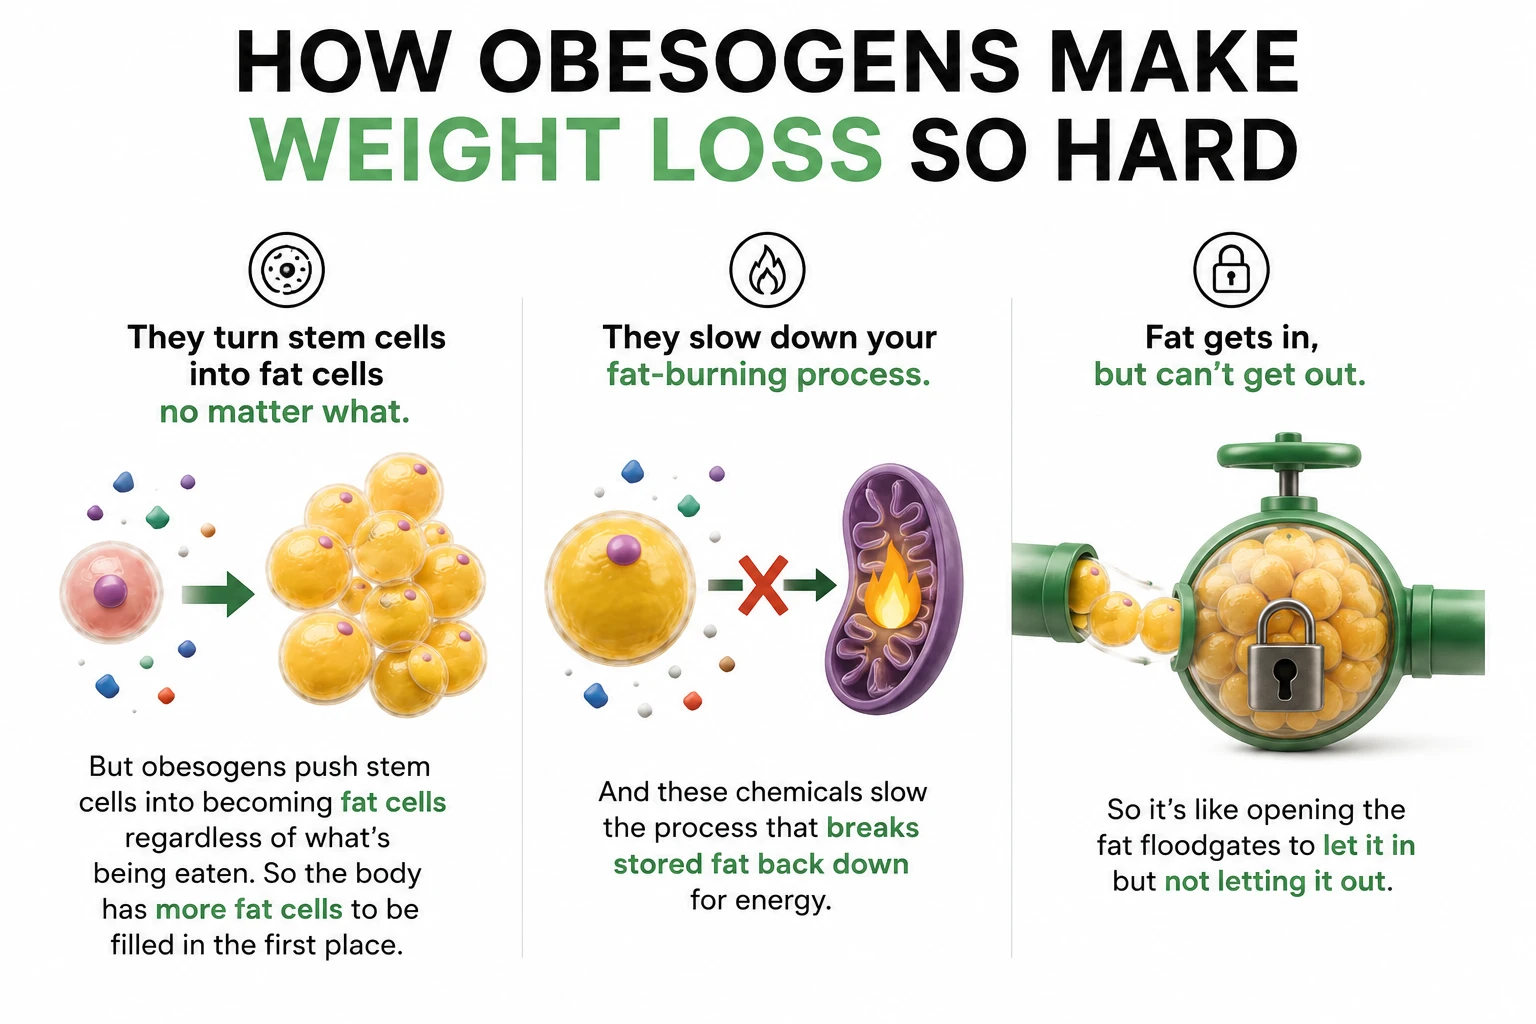
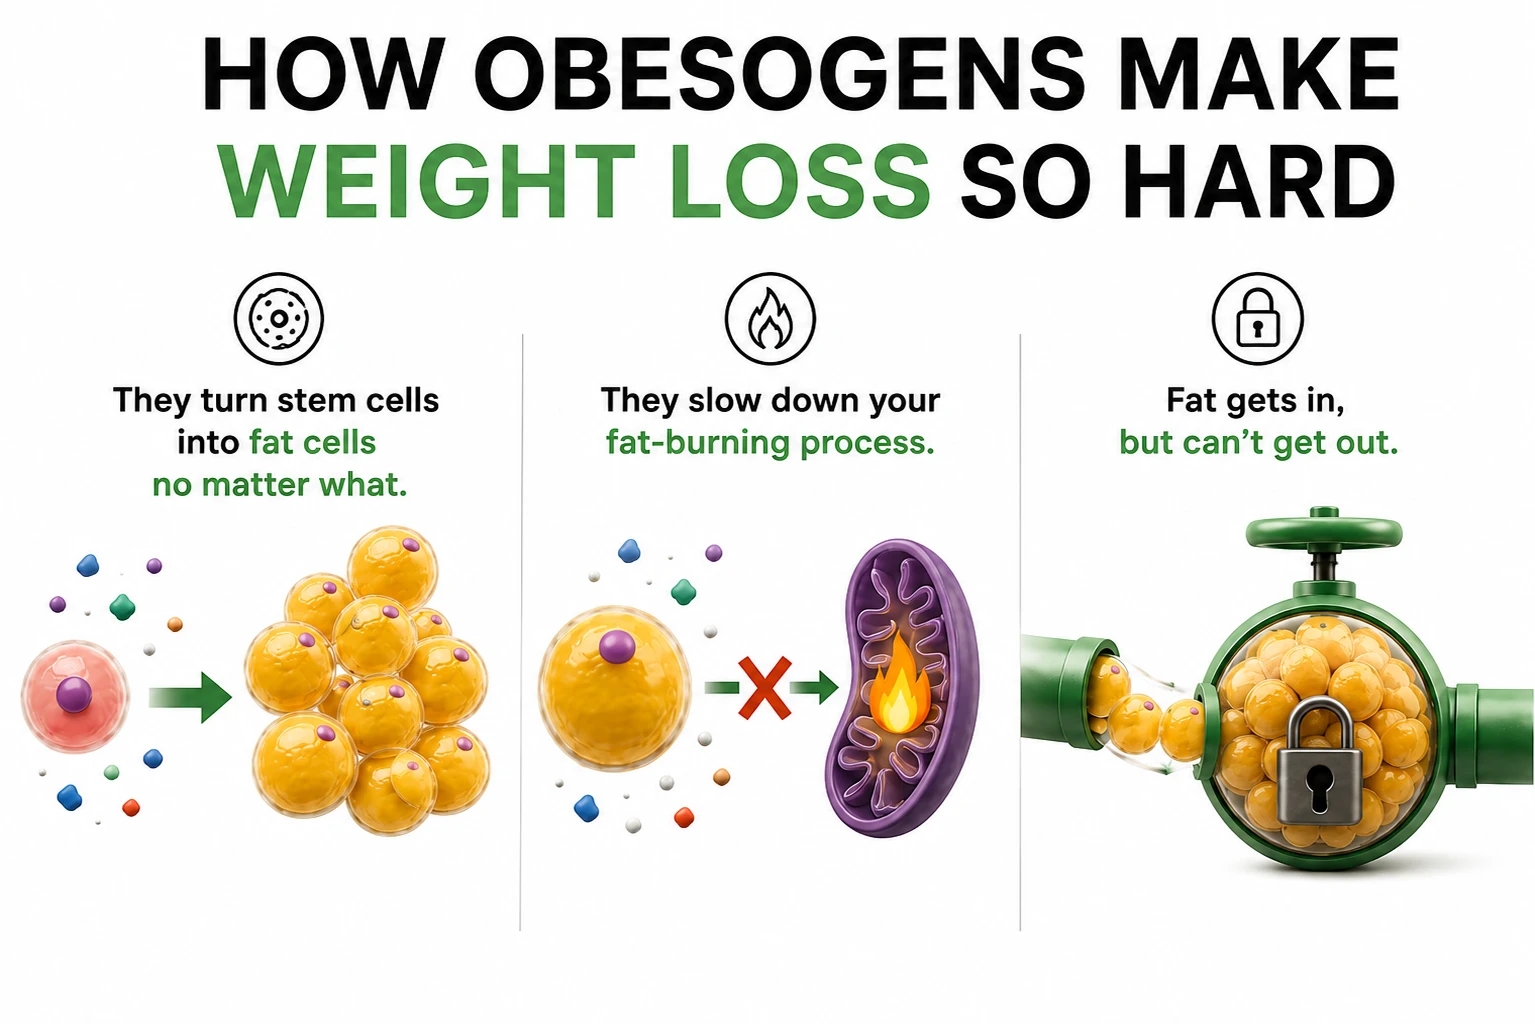
Swap reason 04 for the version without body copy baked in
The previous diagram repeated the section's paragraphs inside the artwork, so
the page made each point twice, once as small type inside an image and once
as text below it. This version keeps the three panel headings and drops the
paragraphs, leaving the prose to carry the argument.

Its dimensions are 1535x1024 rather than 1536x1024, so the width attribute
moves with it. Getting that wrong by a pixel would make the browser reserve
slightly the wrong space and shift the layout as the image lands.

Verified in Chromium against the production build: all nine images decode at
full resolution and there is no horizontal overflow at 420px. pnpm check,
pnpm test (13 tests) and pnpm build pass.

Claude-Session: https://claude.ai/code/session_01XSxXqLrZeWujoSQsREJETv

diff --git a/client/src/content/listicleContent.ts b/client/src/content/listicleContent.ts
@@ -112,8 +112,8 @@ export const reasons: Reason[] = [
     headline: "They Tell The Body To Build Fat Cells It Doesn't Need",
     image: {
       src: "/images/fat-gate.webp",
-      alt: "Three panels titled how obesogens make weight loss so hard. Obesogens turn stem cells into fat cells no matter what, they slow the fat-burning process, and fat gets in but cannot get out.",
-      width: 1536,
+      alt: "Three panels titled how obesogens make weight loss so hard. They turn stem cells into fat cells no matter what, they slow down the fat-burning process, and fat gets in but can't get out.",
+      width: 1535,
       height: 1024,
       caption: "Conceptual mechanism illustration.",
     },
